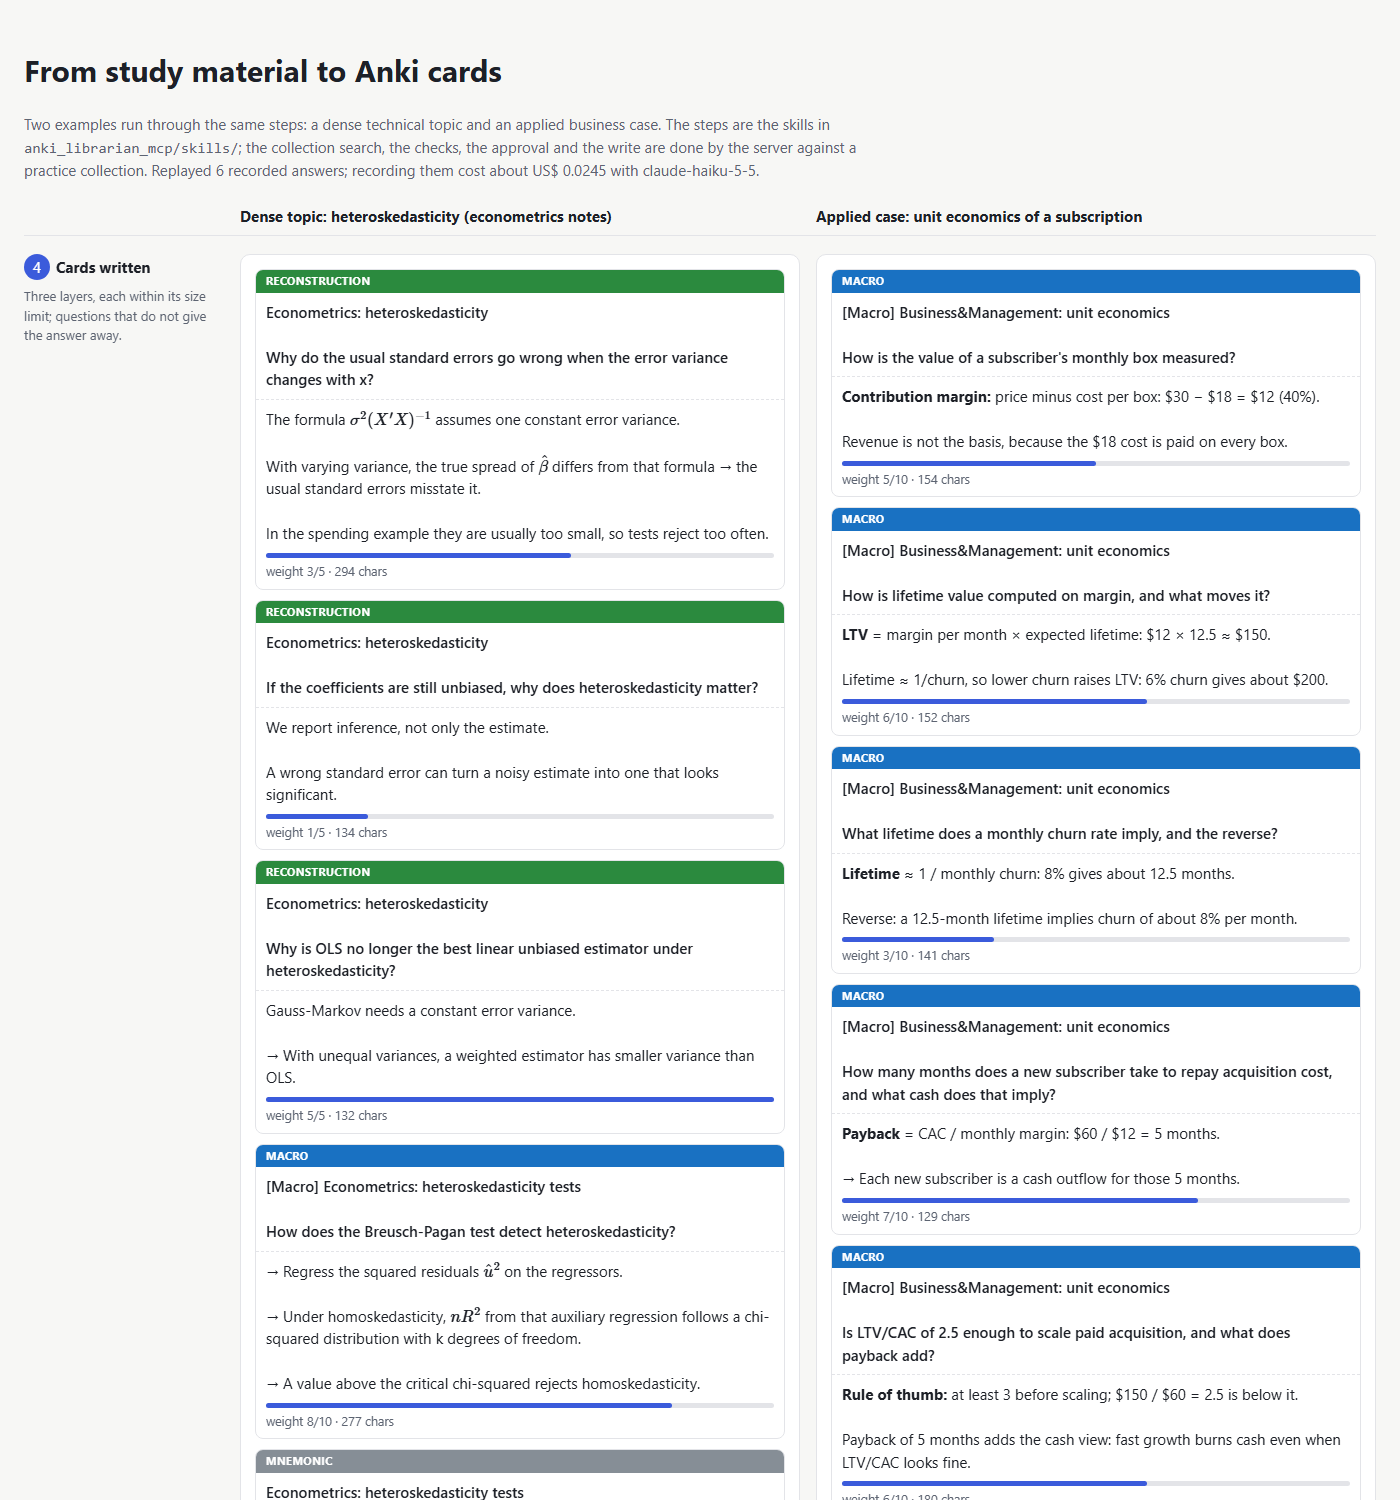
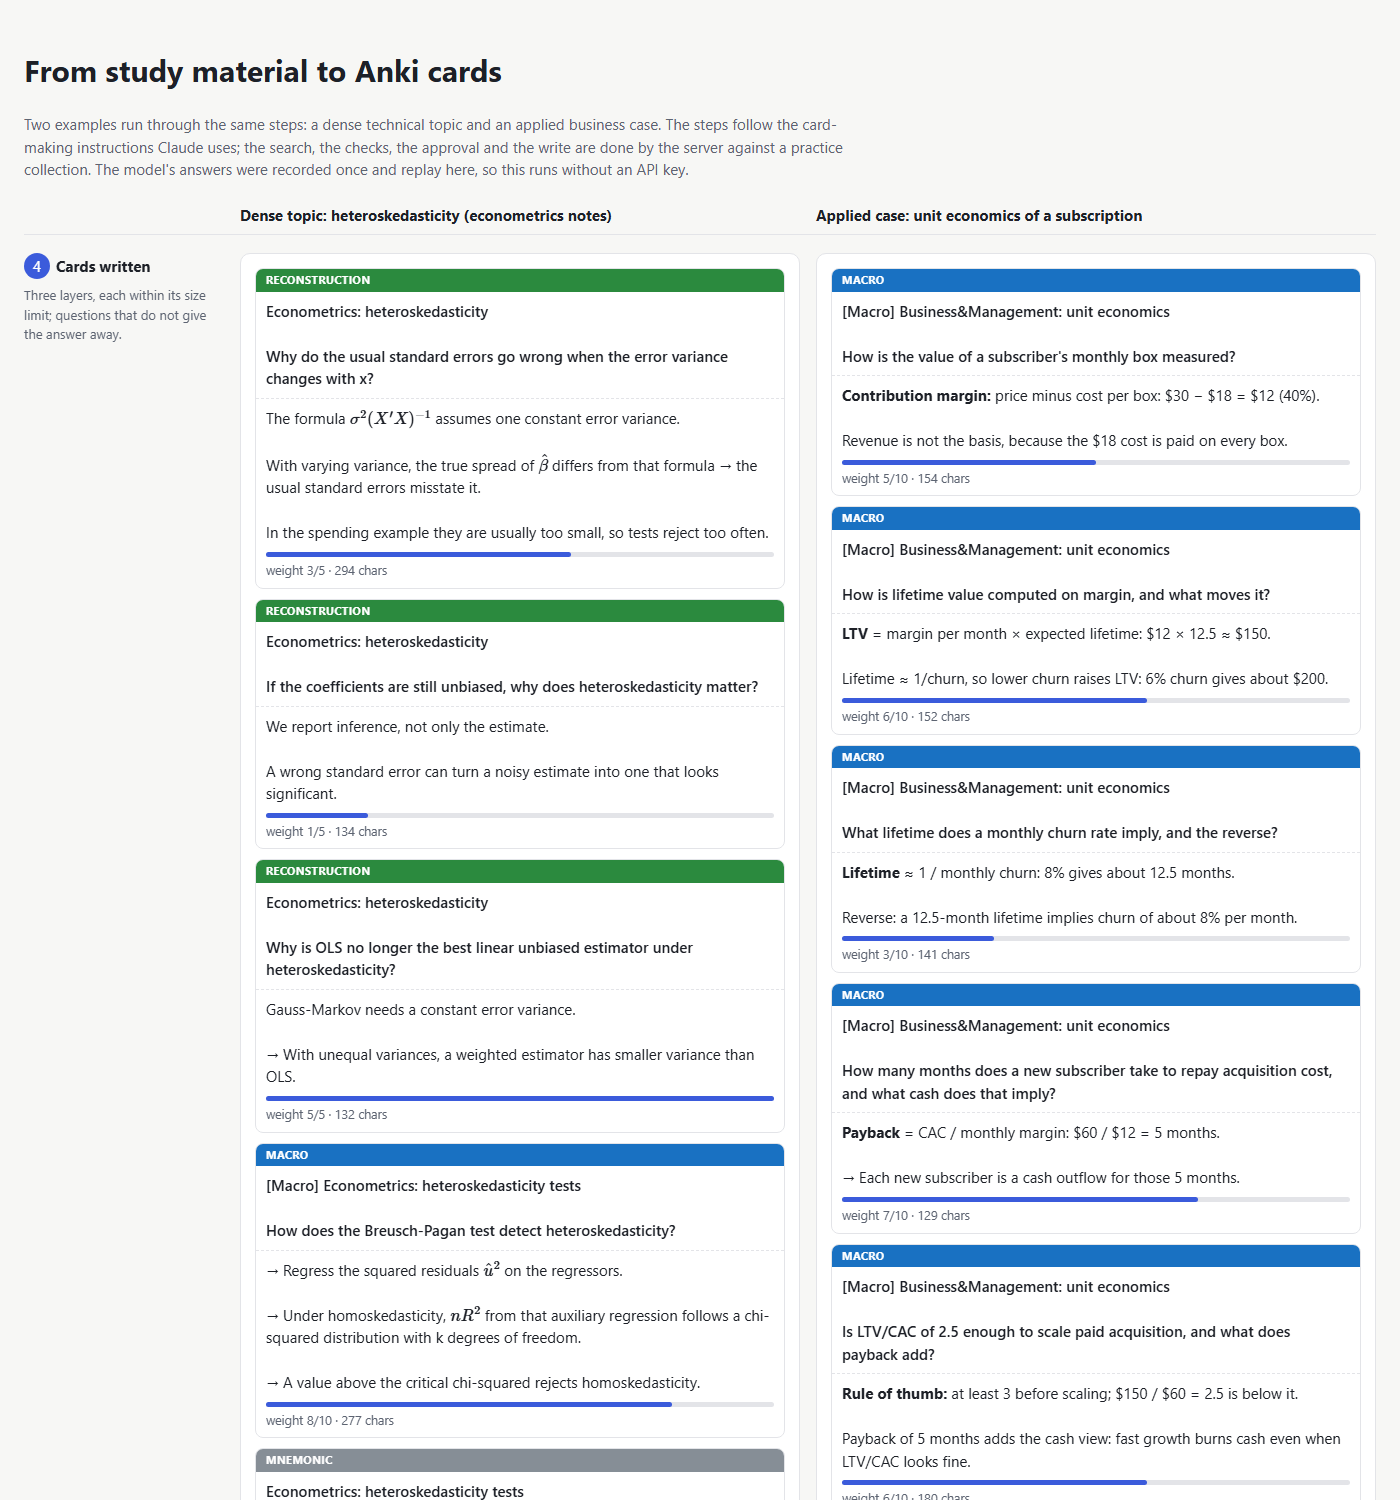
Empty API key means demo mode; simpler page intro

diff --git a/output/simulation.html b/output/simulation.html
@@ -41,9 +41,9 @@ table{width:100%;border-collapse:collapse;font-size:13.5px}td,th{border-bottom:1
 <script>window.MathJax={tex:{inlineMath:[["\\(","\\)"]]}};</script>
 <script defer src="https://cdn.jsdelivr.net/npm/mathjax@3.2.2/es5/tex-chtml.js"></script></head><body>
 <header><h1>From study material to Anki cards</h1>
-<p>Two examples run through the same steps: a dense technical topic and an applied business case. The steps are
-the skills in <code>anki_librarian_mcp/skills/</code>; the collection search, the checks, the approval and the
-write are done by the server against a practice collection. Replayed 6 recorded answers; recording them cost about US$ 0.0245 with claude-haiku-5-5.</p></header>
+<p>Two examples run through the same steps: a dense technical topic and an applied business case. The steps follow
+the card-making instructions Claude uses; the search, the checks, the approval and the write are done by the
+server against a practice collection. The model&#x27;s answers were recorded once and replay here, so this runs without an API key.</p></header>
 <div class="colhead"><div></div><div>Dense topic: heteroskedasticity (econometrics notes)</div><div>Applied case: unit economics of a subscription</div></div><div class="grid"><div class="row" id="s1"><div class="step"><span class="n">1</span><b>Material</b><p>What you hand over: notes, a chapter, a case.</p></div><div class="col"><div class="material"><b>Lecture notes: heteroskedasticity in linear regression</b><br>Setting. In the linear model \(y = X\beta + u\), ordinary least squares (OLS) gives \(\hat{\beta} = (X&#x27;X)^{-1}X&#x27;y\). Unbiasedness needs only exogeneity, \(E[u \mid X] = 0\). The usual formula for the…</div><details><summary>full text</summary><pre># Lecture notes: heteroskedasticity in linear regression
 
 **Setting.** In the linear model \(y = X\beta + u\), ordinary least squares (OLS) gives

diff --git a/tests/test_demo.py b/tests/test_demo.py
@@ -18,7 +18,7 @@ def test_simulation_replays_from_recordings_and_renders():
     import demo
 
     examples, note = demo.simulation(live=False)
-    assert note.startswith("Replayed")
+    assert "without an API key" in note
     for ex in examples:
         verdicts = {v["verdict"] for v in ex["plan"]["verdicts"]}
         assert "GAP" in verdicts and "ALREADY HAVE" in verdicts  # the search found cards the collection already had
@@ -41,3 +41,14 @@ def test_skills_are_served_as_prompts(tmp_path, fake):
     names, text = anyio.run(main)
     assert names == ["make_cards", "harvest", "plan_deck", "generate_cards", "tag_cards", "radar"]
     assert "# Harvest" in text and "# Generator" in text and text.endswith("NOTES")
+
+
+def test_empty_key_means_demo_mode_without_any_other_lookup(monkeypatch):
+    import types
+
+    from anki_librarian_mcp import llm
+
+    fake_registry = types.SimpleNamespace(OpenKey=None, HKEY_CURRENT_USER=None, QueryValueEx=None)
+    monkeypatch.setitem(sys.modules, "winreg", fake_registry)  # would crash if it were consulted
+    monkeypatch.setenv("ANTHROPIC_API_KEY", "")
+    assert llm._key() is None

diff --git a/anki_librarian_mcp/report.py b/anki_librarian_mcp/report.py
@@ -184,7 +184,7 @@ def page(examples: list[dict], cost_note: str, only: tuple[str, ...] = ()) -> st
 <script>window.MathJax={{tex:{{inlineMath:[["\\\\(","\\\\)"]]}}}};</script>
 <script defer src="https://cdn.jsdelivr.net/npm/mathjax@3.2.2/es5/tex-chtml.js"></script></head><body>
 <header><h1>From study material to Anki cards</h1>
-<p>Two examples run through the same steps: a dense technical topic and an applied business case. The steps are
-the skills in <code>anki_librarian_mcp/skills/</code>; the collection search, the checks, the approval and the
-write are done by the server against a practice collection. {esc(cost_note)}</p></header>
+<p>Two examples run through the same steps: a dense technical topic and an applied business case. The steps follow
+the card-making instructions Claude uses; the search, the checks, the approval and the write are done by the
+server against a practice collection. {esc(cost_note)}</p></header>
 <div class="colhead"><div></div>{heads}</div><div class="grid">{"".join(rows)}</div></body></html>"""

diff --git a/demo.py b/demo.py
@@ -72,17 +72,8 @@ def simulation(live: bool) -> tuple[list[dict], str]:
     if llm.calls:
         note = f"This run called Claude {llm.calls} times (about US$ {llm.cost(llm.tokens_in, llm.tokens_out):.4f})."
     else:
-        note = (
-            f"Replayed {llm.replayed} recorded answers; recording them cost about "
-            f"US$ {llm.recorded_cost:.4f} with {pipeline_model()}."
-        )
+        note = "The model's answers were recorded once and replay here, so this runs without an API key."
     return examples, note
-
-
-def pipeline_model() -> str:
-    from anki_librarian_mcp import llm
-
-    return llm.MODEL
 
 
 async def session(url: str, state: Path, show) -> None:

diff --git a/anki_librarian_mcp/llm.py b/anki_librarian_mcp/llm.py
@@ -26,8 +26,8 @@ class NoRecording(RuntimeError):
 
 
 def _key() -> str | None:
-    if os.environ.get("ANTHROPIC_API_KEY"):
-        return os.environ["ANTHROPIC_API_KEY"]
+    if "ANTHROPIC_API_KEY" in os.environ:  # set, even empty, wins: empty means demo mode, no other lookup
+        return os.environ["ANTHROPIC_API_KEY"] or None
     if os.name == "nt":  # set with setx after this terminal was opened
         try:
             import winreg
